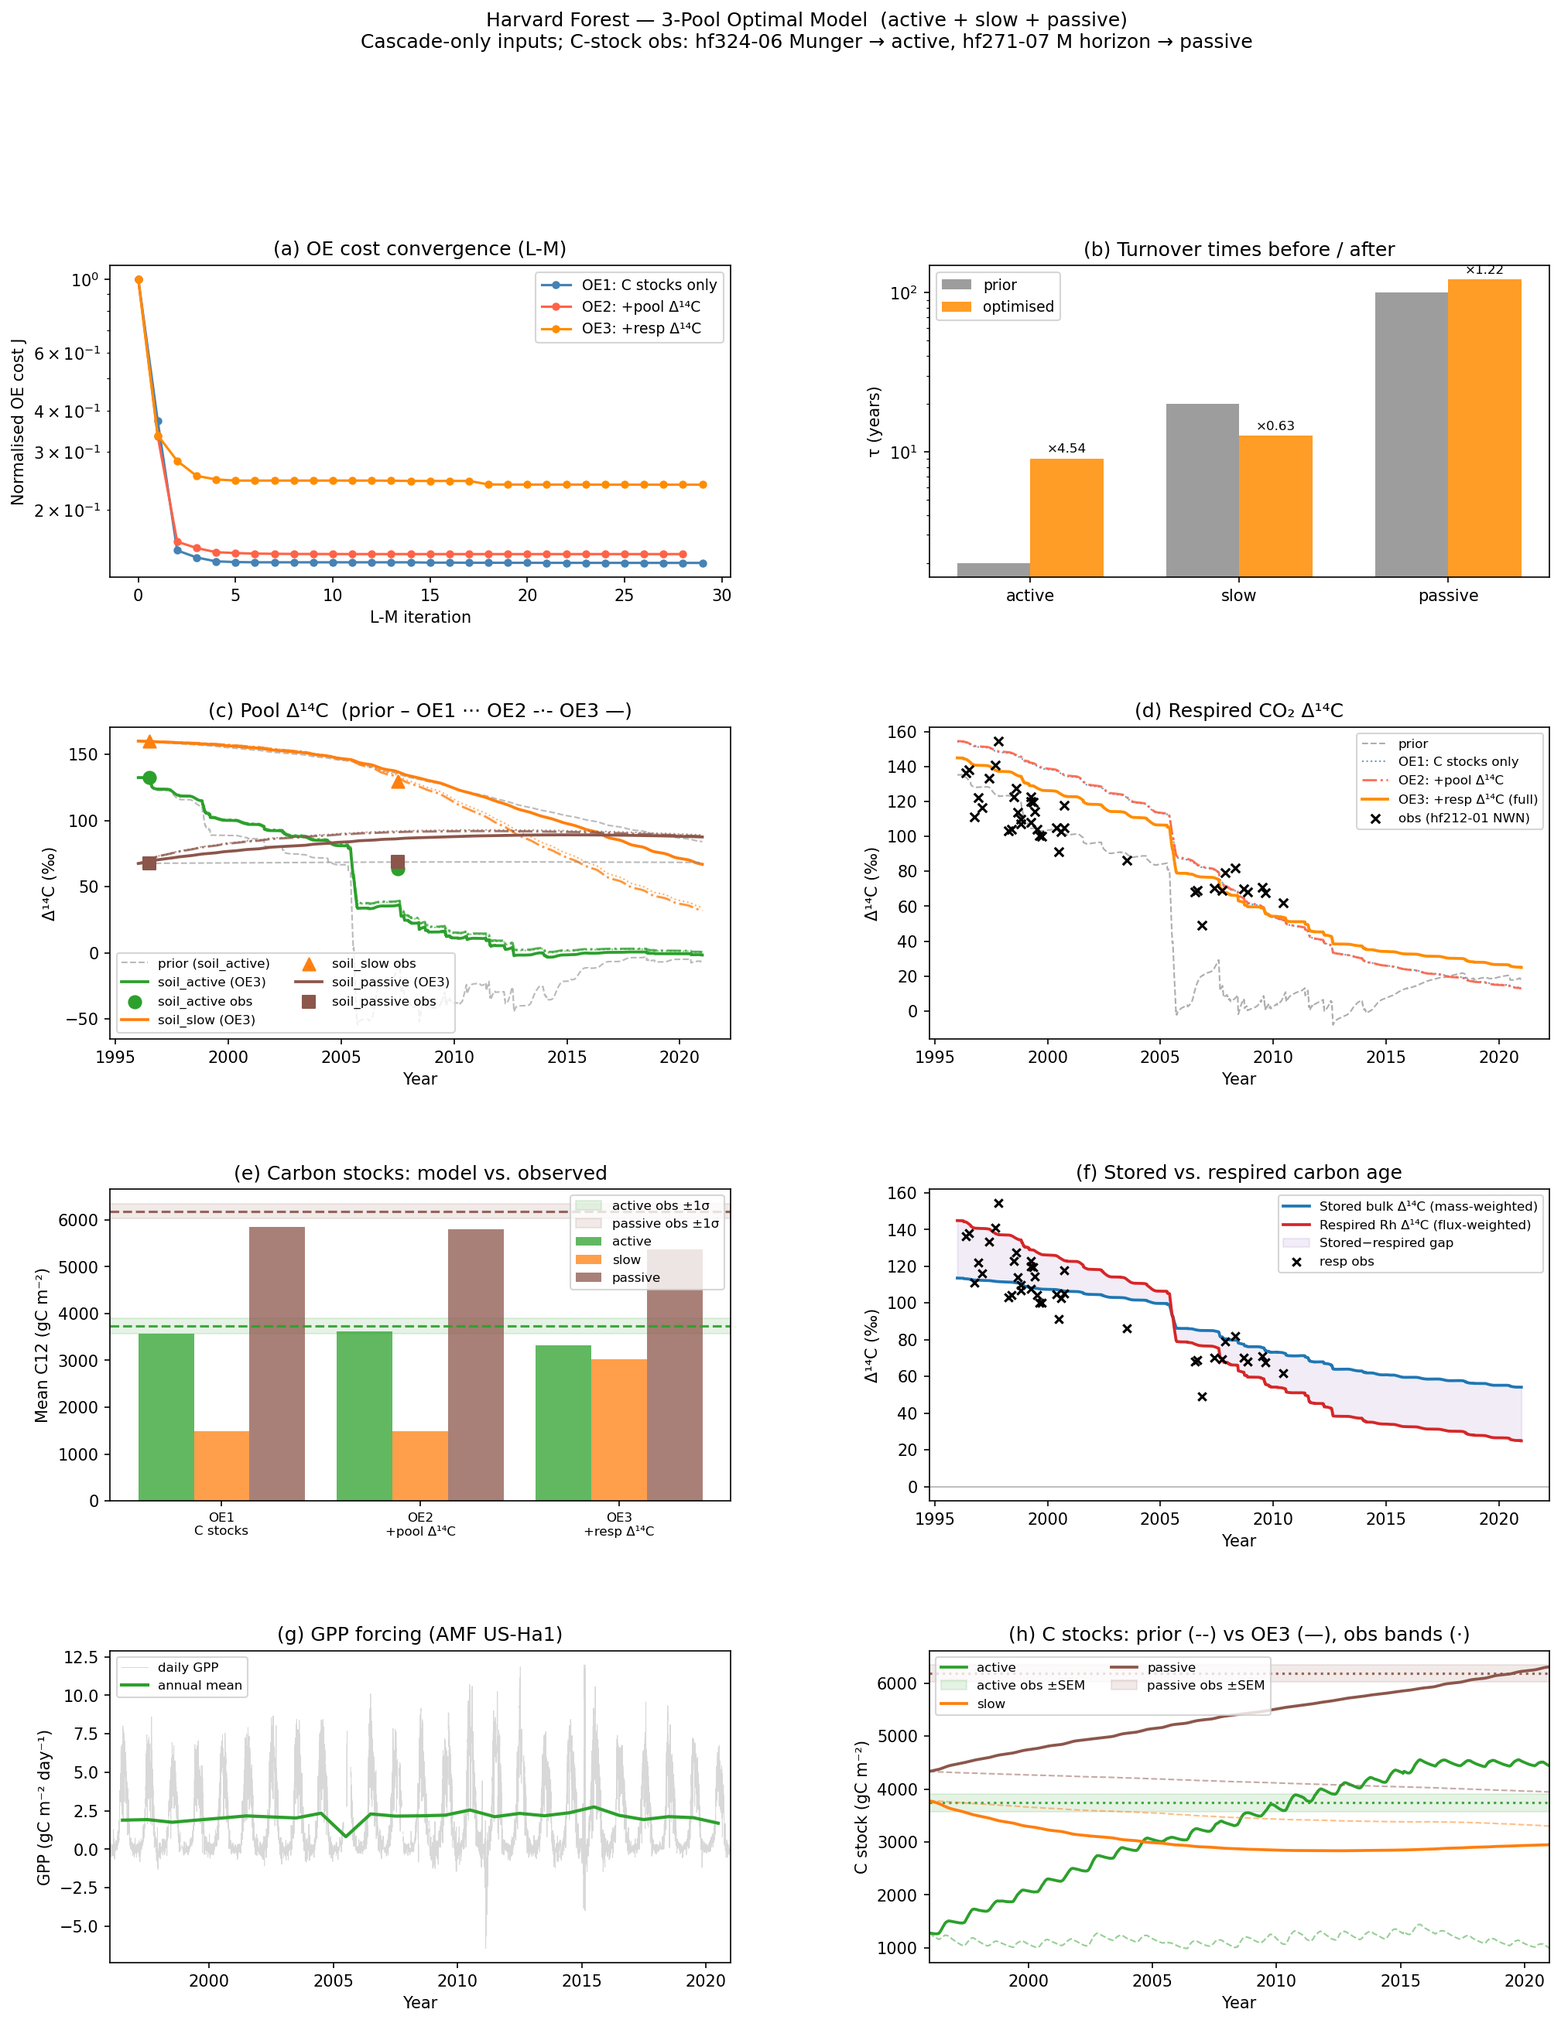
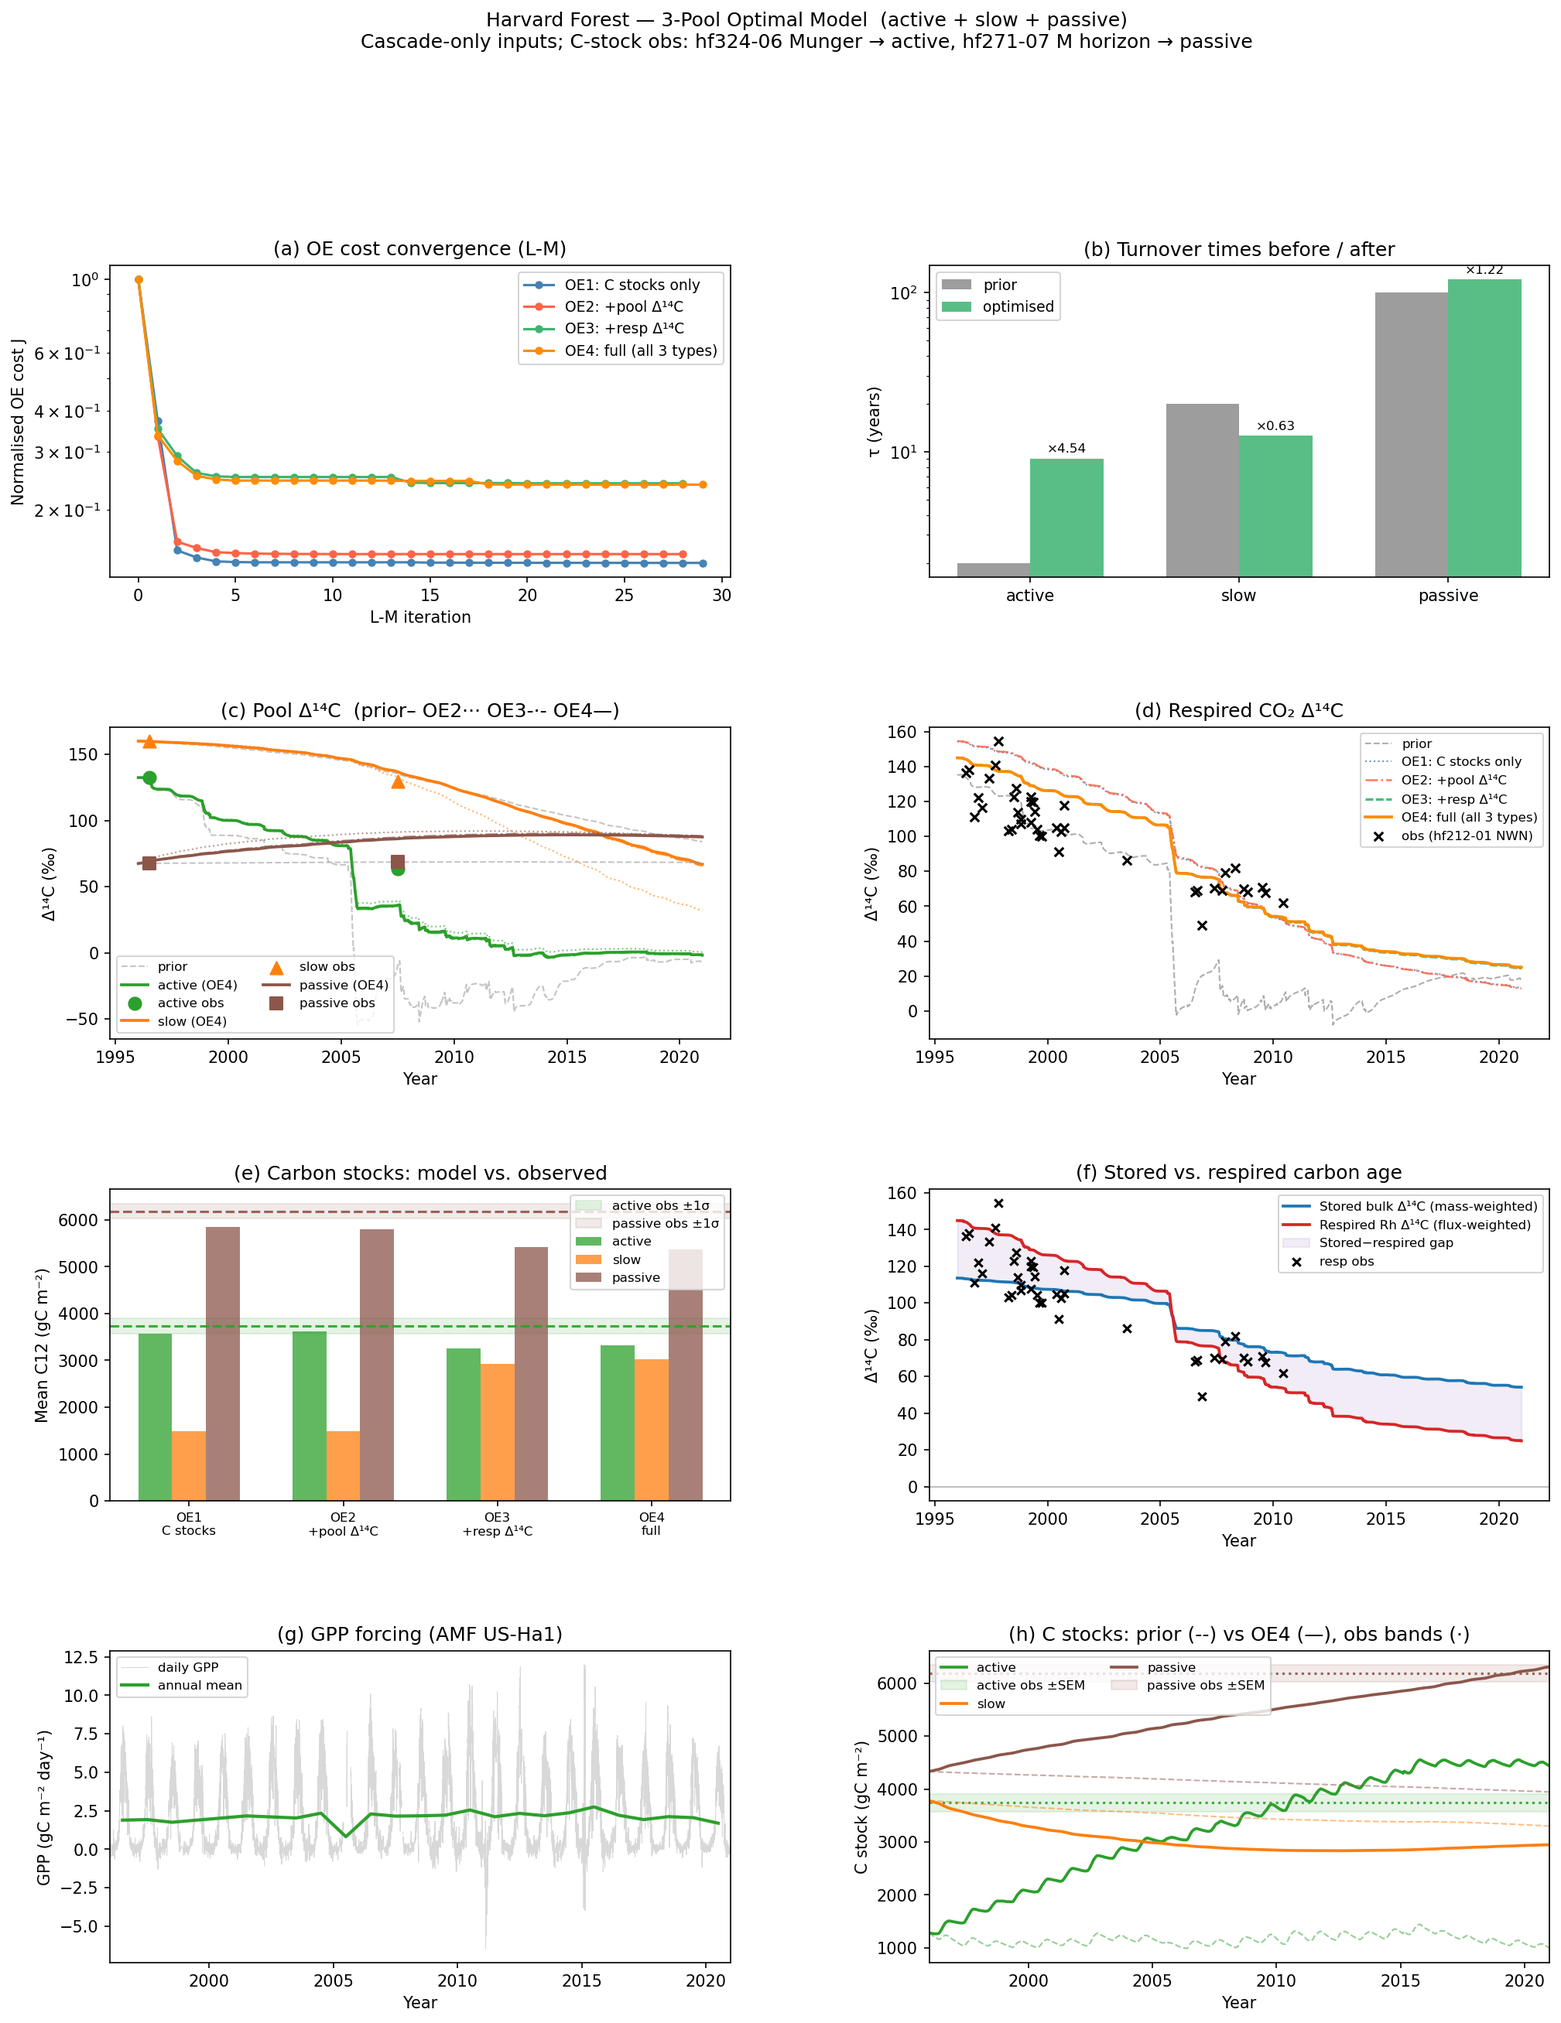
Add OE3 (C stocks + resp Δ¹⁴C) orthogonality run; expand to 4 OE experiments
Experiment order:
  OE1: C stocks only          (2 obs,  DFS=1.85)
  OE2: C stocks + pool Δ¹⁴C  (8 obs,  DFS=2.30)
  OE3: C stocks + resp Δ¹⁴C  (43 obs, DFS=2.38)
  OE4: full (all three)       (49 obs, DFS=2.55)

Key finding: pool Δ¹⁴C and resp Δ¹⁴C add nearly equal DFS increments
(+0.45 and +0.53 respectively) above C-stocks alone — largely orthogonal
with ~30% shared information. Figure expanded to 4 OE series throughout.

diff --git a/notebooks/harvard_optimal_model.py b/notebooks/harvard_optimal_model.py
@@ -456,7 +456,16 @@ def run_optimal_inversion():
         C_pools_obs=c_pools_obs,
         delta14C_resp=None,
     )
-    # OE3: C stocks + pool Δ¹⁴C + resp Δ¹⁴C (full)
+    # OE3: C stocks + resp Δ¹⁴C  (orthogonality test — no pool Δ¹⁴C)
+    obs_carbon_resp14C = ObservationData(
+        time=forcing.time,
+        NEE=_nan_T, GPP=_nan_T, ER=_nan_T, NEE_unc=_nan_T,
+        delta14C_obs={},
+        deltaD14C_obs={},
+        C_pools_obs=c_pools_obs,
+        delta14C_resp=delta14C_resp,
+    )
+    # OE4: C stocks + pool Δ¹⁴C + resp Δ¹⁴C (full)
     obs_all = ObservationData(
         time=forcing.time,
         NEE=_nan_T, GPP=_nan_T, ER=_nan_T, NEE_unc=_nan_T,
@@ -510,15 +519,29 @@ def run_optimal_inversion():
                                 params=result_carbon_pool.params_opt)
     jax.block_until_ready(out_carbon_pool.delta14C)
 
-    # ── OE Run 3 — C stocks + pool Δ¹⁴C + resp Δ¹⁴C (full) ─────────────────
-    print(f"\nOE 3 — full OE: C stocks + pool + resp Δ¹⁴C  "
+    # ── OE Run 3 — C stocks + resp Δ¹⁴C (orthogonality test) ───────────────
+    print(f"\nOE 3 — C stocks + resp Δ¹⁴C  ({len(c_pools_obs)} + {n_resp_obs} obs)…")
+    t0 = time.perf_counter()
+    result_carbon_resp = optimize_oe(model, forcing, obs_carbon_resp14C, state0=state0,
+                                     fields=_OPT_FIELDS)
+    dt3 = time.perf_counter() - t0
+    ch3 = np.array(result_carbon_resp.cost_history)
+    print(f"  Done [{dt3:.0f}s]  J {ch3[0]:.2f} → {ch3[-1]:.2f}"
+          f"  ({'converged' if result_carbon_resp.converged else 'max-iter'})")
+
+    out_carbon_resp = run_model(model, forcing, state0=state0,
+                                params=result_carbon_resp.params_opt)
+    jax.block_until_ready(out_carbon_resp.delta14C)
+
+    # ── OE Run 4 — C stocks + pool Δ¹⁴C + resp Δ¹⁴C (full) ─────────────────
+    print(f"\nOE 4 — full OE: C stocks + pool + resp Δ¹⁴C  "
           f"({len(c_pools_obs)} + {n_pool_obs} + {n_resp_obs} obs)…")
     t0 = time.perf_counter()
     result_all = optimize_oe(model, forcing, obs_all, state0=state0,
                              fields=_OPT_FIELDS)
-    dt3 = time.perf_counter() - t0
-    ch3 = np.array(result_all.cost_history)
-    print(f"  Done [{dt3:.0f}s]  J {ch3[0]:.2f} → {ch3[-1]:.2f}"
+    dt4 = time.perf_counter() - t0
+    ch4 = np.array(result_all.cost_history)
+    print(f"  Done [{dt4:.0f}s]  J {ch4[0]:.2f} → {ch4[-1]:.2f}"
           f"  ({'converged' if result_all.converged else 'max-iter'})")
     print(f"  Posterior σ (diagonal Sₓ): "
           + "  ".join(f"{n}={float(np.sqrt(v)):.3f}"
@@ -538,7 +561,8 @@ def run_optimal_inversion():
 
     d14C_resp_oe1 = _resp_d14c(out_carbon_only,  result_carbon_only.params_opt)
     d14C_resp_oe2 = _resp_d14c(out_carbon_pool,  result_carbon_pool.params_opt)
-    d14C_resp_oe3 = _resp_d14c(out_all,          result_all.params_opt)
+    d14C_resp_oe3 = _resp_d14c(out_carbon_resp,  result_carbon_resp.params_opt)
+    d14C_resp_oe4 = _resp_d14c(out_all,          result_all.params_opt)
 
     # ── Parameter summary ─────────────────────────────────────────────────────
     tau_opt = np.exp(np.array(params_opt.log_tau))
@@ -562,7 +586,7 @@ def run_optimal_inversion():
     # ── Information content from OE averaging kernel ─────────────────────────
     # DFS = trace(A) where A = Sₓ (KᵀSₑ⁻¹K) is the averaging kernel.
     # This is the standard OE measure; no separate Fisher computation needed.
-    print("\nInformation content (OE averaging kernel, full OE3 run)…")
+    print("\nInformation content (OE averaging kernel, full OE4 run)…")
     A_full = np.array(result_all.averaging_kernel)
     dfs_oe = float(np.trace(A_full))
     n_params_oe = A_full.shape[0]
@@ -580,17 +604,27 @@ def run_optimal_inversion():
     dof_2pool       = type("_DFS", (), {"dfs_total": dfs_oe, "dfs_by_group": {}})()
     n_params_2pool  = n_params_oe
 
+    # ── DFS per experiment ────────────────────────────────────────────────────
+    print("\nDFS by experiment:")
+    for label, res in [("OE1 C-stocks",        result_carbon_only),
+                       ("OE2 +pool Δ¹⁴C",      result_carbon_pool),
+                       ("OE3 +resp Δ¹⁴C",      result_carbon_resp),
+                       ("OE4 full",             result_all)]:
+        A = np.array(res.averaging_kernel)
+        print(f"  {label:<20} DFS={np.trace(A):.3f} / {A.shape[0]} params")
+
     # ── Carbon stock diagnostics ──────────────────────────────────────────────
     print("\nCarbon stock constraint diagnostics:")
     for pn, (mu, sig) in c_pools_obs.items():
         pi = idx[pn]
         c1 = float(np.mean(np.array(out_carbon_only.C12)[:, pi]))
         c2 = float(np.mean(np.array(out_carbon_pool.C12)[:, pi]))
-        c3 = float(np.mean(np.array(out_all.C12)[:, pi]))
-        print(f"  {pn}: obs={mu:.0f}±{sig:.0f}  |  OE1={c1:.0f}  OE2={c2:.0f}  OE3={c3:.0f} gC m⁻²")
+        c3 = float(np.mean(np.array(out_carbon_resp.C12)[:, pi]))
+        c4 = float(np.mean(np.array(out_all.C12)[:, pi]))
+        print(f"  {pn}: obs={mu:.0f}±{sig:.0f}  |  OE1={c1:.0f}  OE2={c2:.0f}  OE3={c3:.0f}  OE4={c4:.0f} gC m⁻²")
 
     # ── Age diagnostics ───────────────────────────────────────────────────────
-    print("\nAge diagnostics (OE3 full run)…")
+    print("\nAge diagnostics (OE4 full run)…")
     age_diag = compute_age_diagnostics(out_all, params_opt, model)
     bulk_d14C_mean = float(np.nanmean(age_diag.bulk_delta14C))
     resp_d14C_mean = float(np.nanmean(age_diag.respired_delta14C))
@@ -604,10 +638,12 @@ def run_optimal_inversion():
         out_prior=out_prior,
         out_oe1=out_carbon_only,
         out_oe2=out_carbon_pool,
-        out_oe3=out_all,
+        out_oe3=out_carbon_resp,
+        out_oe4=out_all,
         result_oe1=result_carbon_only,
         result_oe2=result_carbon_pool,
-        result_oe3=result_all,
+        result_oe3=result_carbon_resp,
+        result_oe4=result_all,
         delta14C_obs=delta14C_obs,
         delta14C_resp=delta14C_resp,
         c_pools_obs=c_pools_obs,
@@ -615,6 +651,7 @@ def run_optimal_inversion():
         d14C_resp_oe1=d14C_resp_oe1,
         d14C_resp_oe2=d14C_resp_oe2,
         d14C_resp_oe3=d14C_resp_oe3,
+        d14C_resp_oe4=d14C_resp_oe4,
         params_prior=params_prior,
         params_opt=params_opt,
         pool_idx=idx,
@@ -628,6 +665,7 @@ def run_optimal_inversion():
         lh1=ch1,
         lh2=ch2,
         lh3=ch3,
+        lh4=ch4,
         dfs_oe=dfs_oe,
         n_params_oe=n_params_oe,
     )
@@ -645,13 +683,15 @@ def make_figure(r: dict, out_path: str | None = None):
     C_PRIOR = "0.55"
     C_OE1   = "steelblue"
     C_OE2   = "tomato"
-    C_OE3   = "darkorange"
+    C_OE3   = "mediumseagreen"
+    C_OE4   = "darkorange"
 
     time_years   = r["time_years"]
     out_prior    = r["out_prior"]
     out_oe1      = r["out_oe1"]
     out_oe2      = r["out_oe2"]
     out_oe3      = r["out_oe3"]
+    out_oe4      = r["out_oe4"]
     delta14C_obs = r["delta14C_obs"]
     c_pools_obs  = r["c_pools_obs"]
     d14C_resp    = r["delta14C_resp"]
@@ -660,7 +700,7 @@ def make_figure(r: dict, out_path: str | None = None):
     age_diag     = r["age_diag"]
     tau_p        = r["tau_p"]
     tau_opt      = r["tau_opt"]
-    lh1, lh2, lh3 = r["lh1"], r["lh2"], r["lh3"]
+    lh1, lh2, lh3, lh4 = r["lh1"], r["lh2"], r["lh3"], r["lh4"]
 
     pool_names = pool_idx.pool_names
     pool_colors  = ["tab:green", "tab:orange", "tab:brown", "tab:purple"]
@@ -673,9 +713,10 @@ def make_figure(r: dict, out_path: str | None = None):
 
     # ── (a) Loss convergence ─────────────────────────────────────────────────
     for lh, label, color in [
-        (lh1, "OE1: C stocks only", C_OE1),
-        (lh2, "OE2: +pool Δ¹⁴C",   C_OE2),
-        (lh3, "OE3: +resp Δ¹⁴C",   C_OE3),
+        (lh1, "OE1: C stocks only",      C_OE1),
+        (lh2, "OE2: +pool Δ¹⁴C",        C_OE2),
+        (lh3, "OE3: +resp Δ¹⁴C",        C_OE3),
+        (lh4, "OE4: full (all 3 types)", C_OE4),
     ]:
         valid = lh[np.isfinite(lh)]
         if len(valid) and valid[0] > 0:
@@ -710,29 +751,29 @@ def make_figure(r: dict, out_path: str | None = None):
         pi = pool_idx[pool_name]
 
         prior_line = np.array(out_prior.delta14C)[:, pi]
-        oe1_line   = np.array(out_oe1.delta14C)[:, pi]
-        oe2_line   = np.array(out_oe2.delta14C)[:, pi]
-        oe3_line   = np.array(out_oe3.delta14C)[:, pi]
+        oe2_line   = np.array(out_oe2.delta14C)[:, pi]   # +pool Δ¹⁴C
+        oe3_line   = np.array(out_oe3.delta14C)[:, pi]   # +resp Δ¹⁴C
+        oe4_line   = np.array(out_oe4.delta14C)[:, pi]   # full
 
-        ax_pool14C.plot(time_years, prior_line, color=C_PRIOR, lw=1.0, alpha=0.6,
-                        linestyle="--", label=f"prior ({pool_name})" if i == 0 else None)
-        ax_pool14C.plot(time_years, oe1_line,  color=color, lw=1.0, alpha=0.6,
+        ax_pool14C.plot(time_years, prior_line, color=C_PRIOR, lw=1.0, alpha=0.5,
+                        linestyle="--", label="prior" if i == 0 else None)
+        ax_pool14C.plot(time_years, oe2_line,  color=color, lw=1.0, alpha=0.6,
                         linestyle=":")
-        ax_pool14C.plot(time_years, oe2_line,  color=color, lw=1.4, alpha=0.8,
+        ax_pool14C.plot(time_years, oe3_line,  color=color, lw=1.2, alpha=0.75,
                         linestyle="-.")
-        ax_pool14C.plot(time_years, oe3_line,  color=color, lw=1.8,
-                        label=f"{pool_name} (OE3)")
+        ax_pool14C.plot(time_years, oe4_line,  color=color, lw=1.8,
+                        label=f"{pool_name.replace('soil_','')} (OE4)")
 
         if pool_name in delta14C_obs:
             obs_arr  = np.array(delta14C_obs[pool_name])
             obs_mask = ~np.isnan(obs_arr)
             ax_pool14C.scatter(time_years[obs_mask], obs_arr[obs_mask],
                                color=color, marker=marker, s=60, zorder=5,
-                               label=f"{pool_name} obs")
+                               label=f"{pool_name.replace('soil_','')} obs")
 
     ax_pool14C.set_xlabel("Year")
     ax_pool14C.set_ylabel("Δ¹⁴C (‰)")
-    ax_pool14C.set_title("(c) Pool Δ¹⁴C  (prior – OE1 ··· OE2 -·- OE3 —)")
+    ax_pool14C.set_title("(c) Pool Δ¹⁴C  (prior– OE2··· OE3-·- OE4—)")
     ax_pool14C.legend(fontsize=8, ncol=2)
 
     # ── (d) Respired CO₂ Δ¹⁴C ───────────────────────────────────────────────
@@ -743,10 +784,12 @@ def make_figure(r: dict, out_path: str | None = None):
                     linestyle="--", label="prior", alpha=0.7)
     ax_resp14C.plot(time_years, r["d14C_resp_oe1"],   color=C_OE1,  lw=1.0,
                     linestyle=":", label="OE1: C stocks only", alpha=0.8)
-    ax_resp14C.plot(time_years, r["d14C_resp_oe2"],   color=C_OE2,  lw=1.4,
-                    linestyle="-.", label="OE2: +pool Δ¹⁴C", alpha=0.9)
-    ax_resp14C.plot(time_years, r["d14C_resp_oe3"],   color=C_OE3,  lw=1.8,
-                    label="OE3: +resp Δ¹⁴C (full)")
+    ax_resp14C.plot(time_years, r["d14C_resp_oe2"],   color=C_OE2,  lw=1.2,
+                    linestyle="-.", label="OE2: +pool Δ¹⁴C", alpha=0.85)
+    ax_resp14C.plot(time_years, r["d14C_resp_oe3"],   color=C_OE3,  lw=1.6,
+                    linestyle=(0, (3, 1)), label="OE3: +resp Δ¹⁴C", alpha=0.9)
+    ax_resp14C.plot(time_years, r["d14C_resp_oe4"],   color=C_OE4,  lw=1.8,
+                    label="OE4: full (all 3 types)")
     ax_resp14C.scatter(time_years[resp_mask], resp_arr[resp_mask],
                        color="k", marker="x", s=30, zorder=5,
                        label="obs (hf212-01 NWN)")
@@ -756,9 +799,9 @@ def make_figure(r: dict, out_path: str | None = None):
     ax_resp14C.legend(fontsize=8)
 
     # ── (e) Carbon stock constraints: obs vs. modelled ───────────────────────
-    _bar_labels = ["OE1\nC stocks", "OE2\n+pool Δ¹⁴C", "OE3\n+resp Δ¹⁴C"]
+    _bar_labels = ["OE1\nC stocks", "OE2\n+pool Δ¹⁴C", "OE3\n+resp Δ¹⁴C", "OE4\nfull"]
     _x_base = np.arange(len(_bar_labels))
-    _bar_w  = 0.28
+    _bar_w  = 0.22
 
     n_pools_fig = len(pool_names)
     for j, (pool_name, color, marker) in enumerate(zip(pool_names, pool_colors, pool_markers)):
@@ -767,7 +810,7 @@ def make_figure(r: dict, out_path: str | None = None):
         pi = pool_idx[pool_name]
         means_sim = [
             float(np.mean(np.array(out.C12)[:, pi]))
-            for out in [out_oe1, out_oe2, out_oe3]
+            for out in [out_oe1, out_oe2, out_oe3, out_oe4]
         ]
         offset = (j - (n_pools_fig - 1) / 2.0) * _bar_w
         ax_info.bar(_x_base + offset, means_sim, width=_bar_w,
@@ -837,10 +880,10 @@ def make_figure(r: dict, out_path: str | None = None):
             continue
         pi = pool_idx[pool_name]
         c_prior = np.array(out_prior.C12)[:, pi]
-        c_oe3   = np.array(out_oe3.C12)[:, pi]
+        c_oe4   = np.array(out_oe4.C12)[:, pi]
 
         ax_cstock.plot(time_years, c_prior, color=color, lw=1.0, linestyle="--", alpha=0.5)
-        ax_cstock.plot(time_years, c_oe3,   color=color, lw=1.8,
+        ax_cstock.plot(time_years, c_oe4,   color=color, lw=1.8,
                        label=pool_name.replace("soil_", ""))
 
         if pool_name in c_pools_obs:
@@ -852,7 +895,7 @@ def make_figure(r: dict, out_path: str | None = None):
 
     ax_cstock.set_xlabel("Year")
     ax_cstock.set_ylabel("C stock (gC m⁻²)")
-    ax_cstock.set_title("(h) C stocks: prior (--) vs OE3 (—), obs bands (·)")
+    ax_cstock.set_title("(h) C stocks: prior (--) vs OE4 (—), obs bands (·)")
     ax_cstock.legend(fontsize=8, ncol=2)
     ax_cstock.set_xlim(time_years[0], time_years[-1])
 
